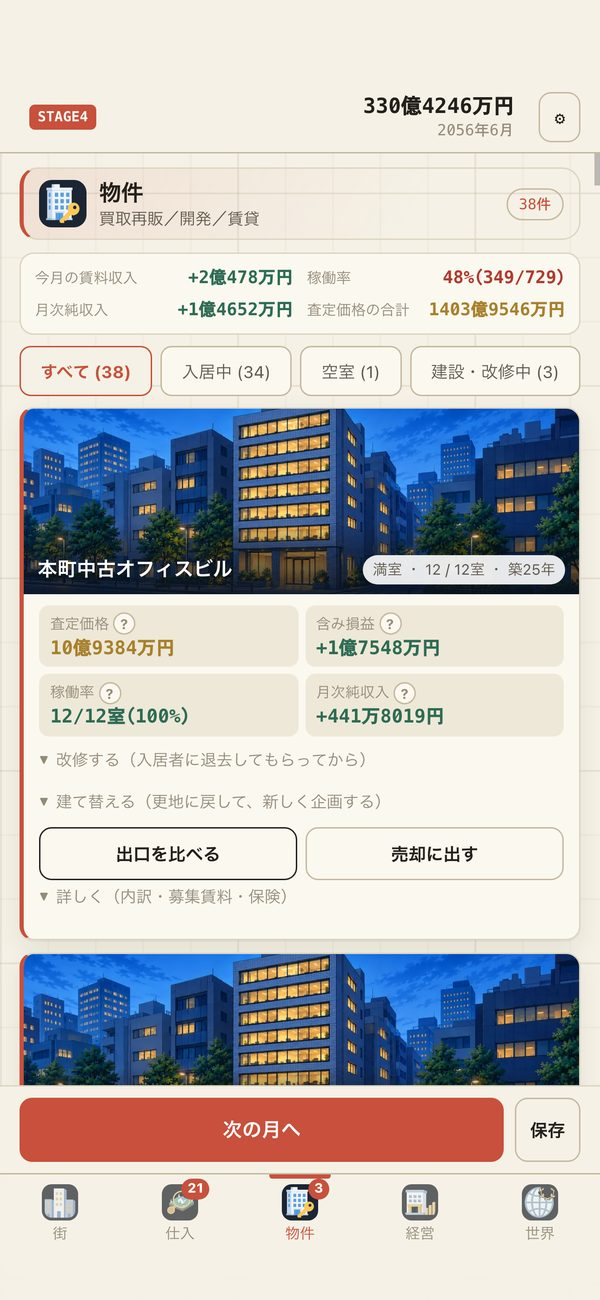
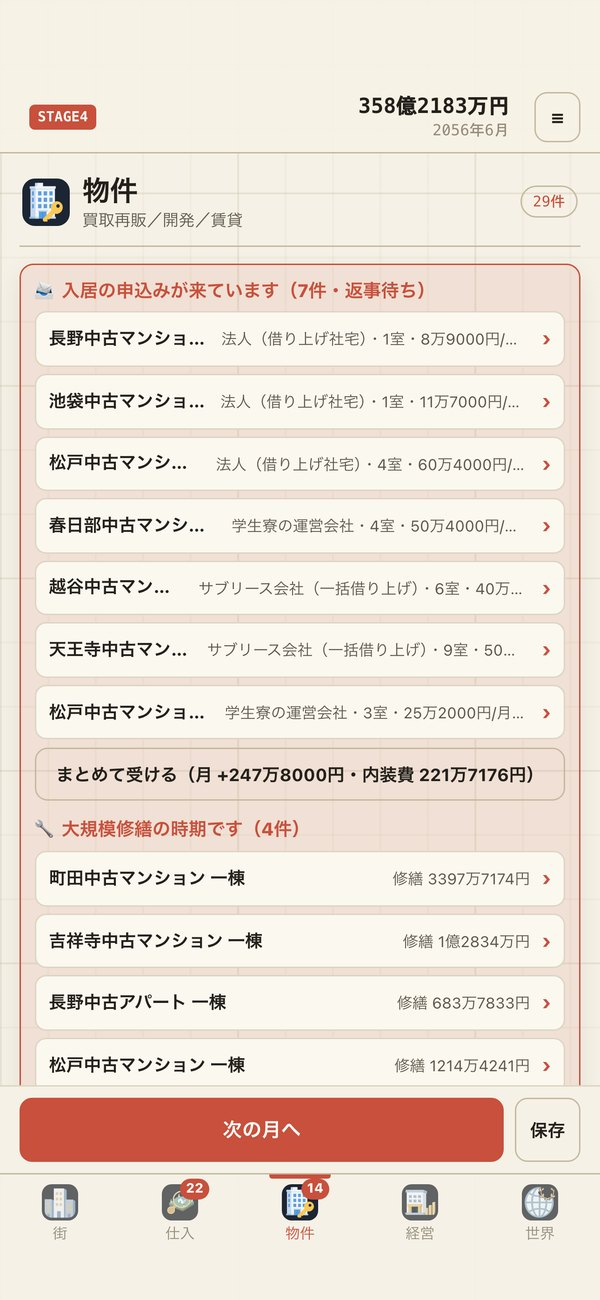
CITY EMPIRE の紹介ページのスクショを 1.1 の画面に撮り直す
前のスクショは 9/29 のもので、そのあとの見た目の直し（AIで作った感の直し・アイコン）が入っていなかった（利用者「中のスクショとかも更新した方が良さそう」）。
App Store の 1.1 のスクショと同じ素材（tools/asc/capture.mjs・30年遊んだ会社）から 600x1300 で作った。img の縦横比も絵に合わせた。

diff --git a/cityempire/index.html b/cityempire/index.html
@@ -204,12 +204,12 @@ footer .back{display:inline-block;margin-bottom:10px}
     <h2>画面を見てみる</h2>
   </div>
   <div class="shots">
-    <div class="shot"><figure><img src="assets/shot-1.jpg" alt="ホーム画面。持っている物件が朱の区画で並ぶ街" width="400" height="826" loading="lazy"><figcaption>街</figcaption></figure></div>
-    <div class="shot"><figure><img src="assets/shot-2.jpg" alt="仕入の画面。市場に出た物件と土地" width="400" height="826" loading="lazy"><figcaption>仕入</figcaption></figure></div>
-    <div class="shot"><figure><img src="assets/shot-3.jpg" alt="物件の画面。保有物件の収支と稼働率" width="400" height="826" loading="lazy"><figcaption>物件</figcaption></figure></div>
-    <div class="shot"><figure><img src="assets/shot-4.jpg" alt="経営の画面。人事・銀行・ファンドなどのメニュー" width="400" height="826" loading="lazy"><figcaption>経営</figcaption></figure></div>
-    <div class="shot"><figure><img src="assets/shot-5.jpg" alt="世界ランキングの画面" width="400" height="826" loading="lazy"><figcaption>世界ランキング</figcaption></figure></div>
-    <div class="shot"><figure><img src="assets/shot-6.jpg" alt="月次の収支報告書" width="400" height="826" loading="lazy"><figcaption>収支報告書</figcaption></figure></div>
+    <div class="shot"><figure><img src="assets/shot-1.jpg" alt="ホーム画面。持っている物件が朱の区画で並ぶ街" width="400" height="867" loading="lazy"><figcaption>街</figcaption></figure></div>
+    <div class="shot"><figure><img src="assets/shot-2.jpg" alt="仕入の画面。市場に出た物件と土地" width="400" height="867" loading="lazy"><figcaption>仕入</figcaption></figure></div>
+    <div class="shot"><figure><img src="assets/shot-3.jpg" alt="物件の画面。保有物件の収支と稼働率" width="400" height="867" loading="lazy"><figcaption>物件</figcaption></figure></div>
+    <div class="shot"><figure><img src="assets/shot-4.jpg" alt="経営の画面。人事・銀行・ファンドなどのメニュー" width="400" height="867" loading="lazy"><figcaption>経営</figcaption></figure></div>
+    <div class="shot"><figure><img src="assets/shot-5.jpg" alt="世界ランキングの画面" width="400" height="867" loading="lazy"><figcaption>世界ランキング</figcaption></figure></div>
+    <div class="shot"><figure><img src="assets/shot-6.jpg" alt="月次の収支報告書" width="400" height="867" loading="lazy"><figcaption>収支報告書</figcaption></figure></div>
   </div>
 </section>
 
